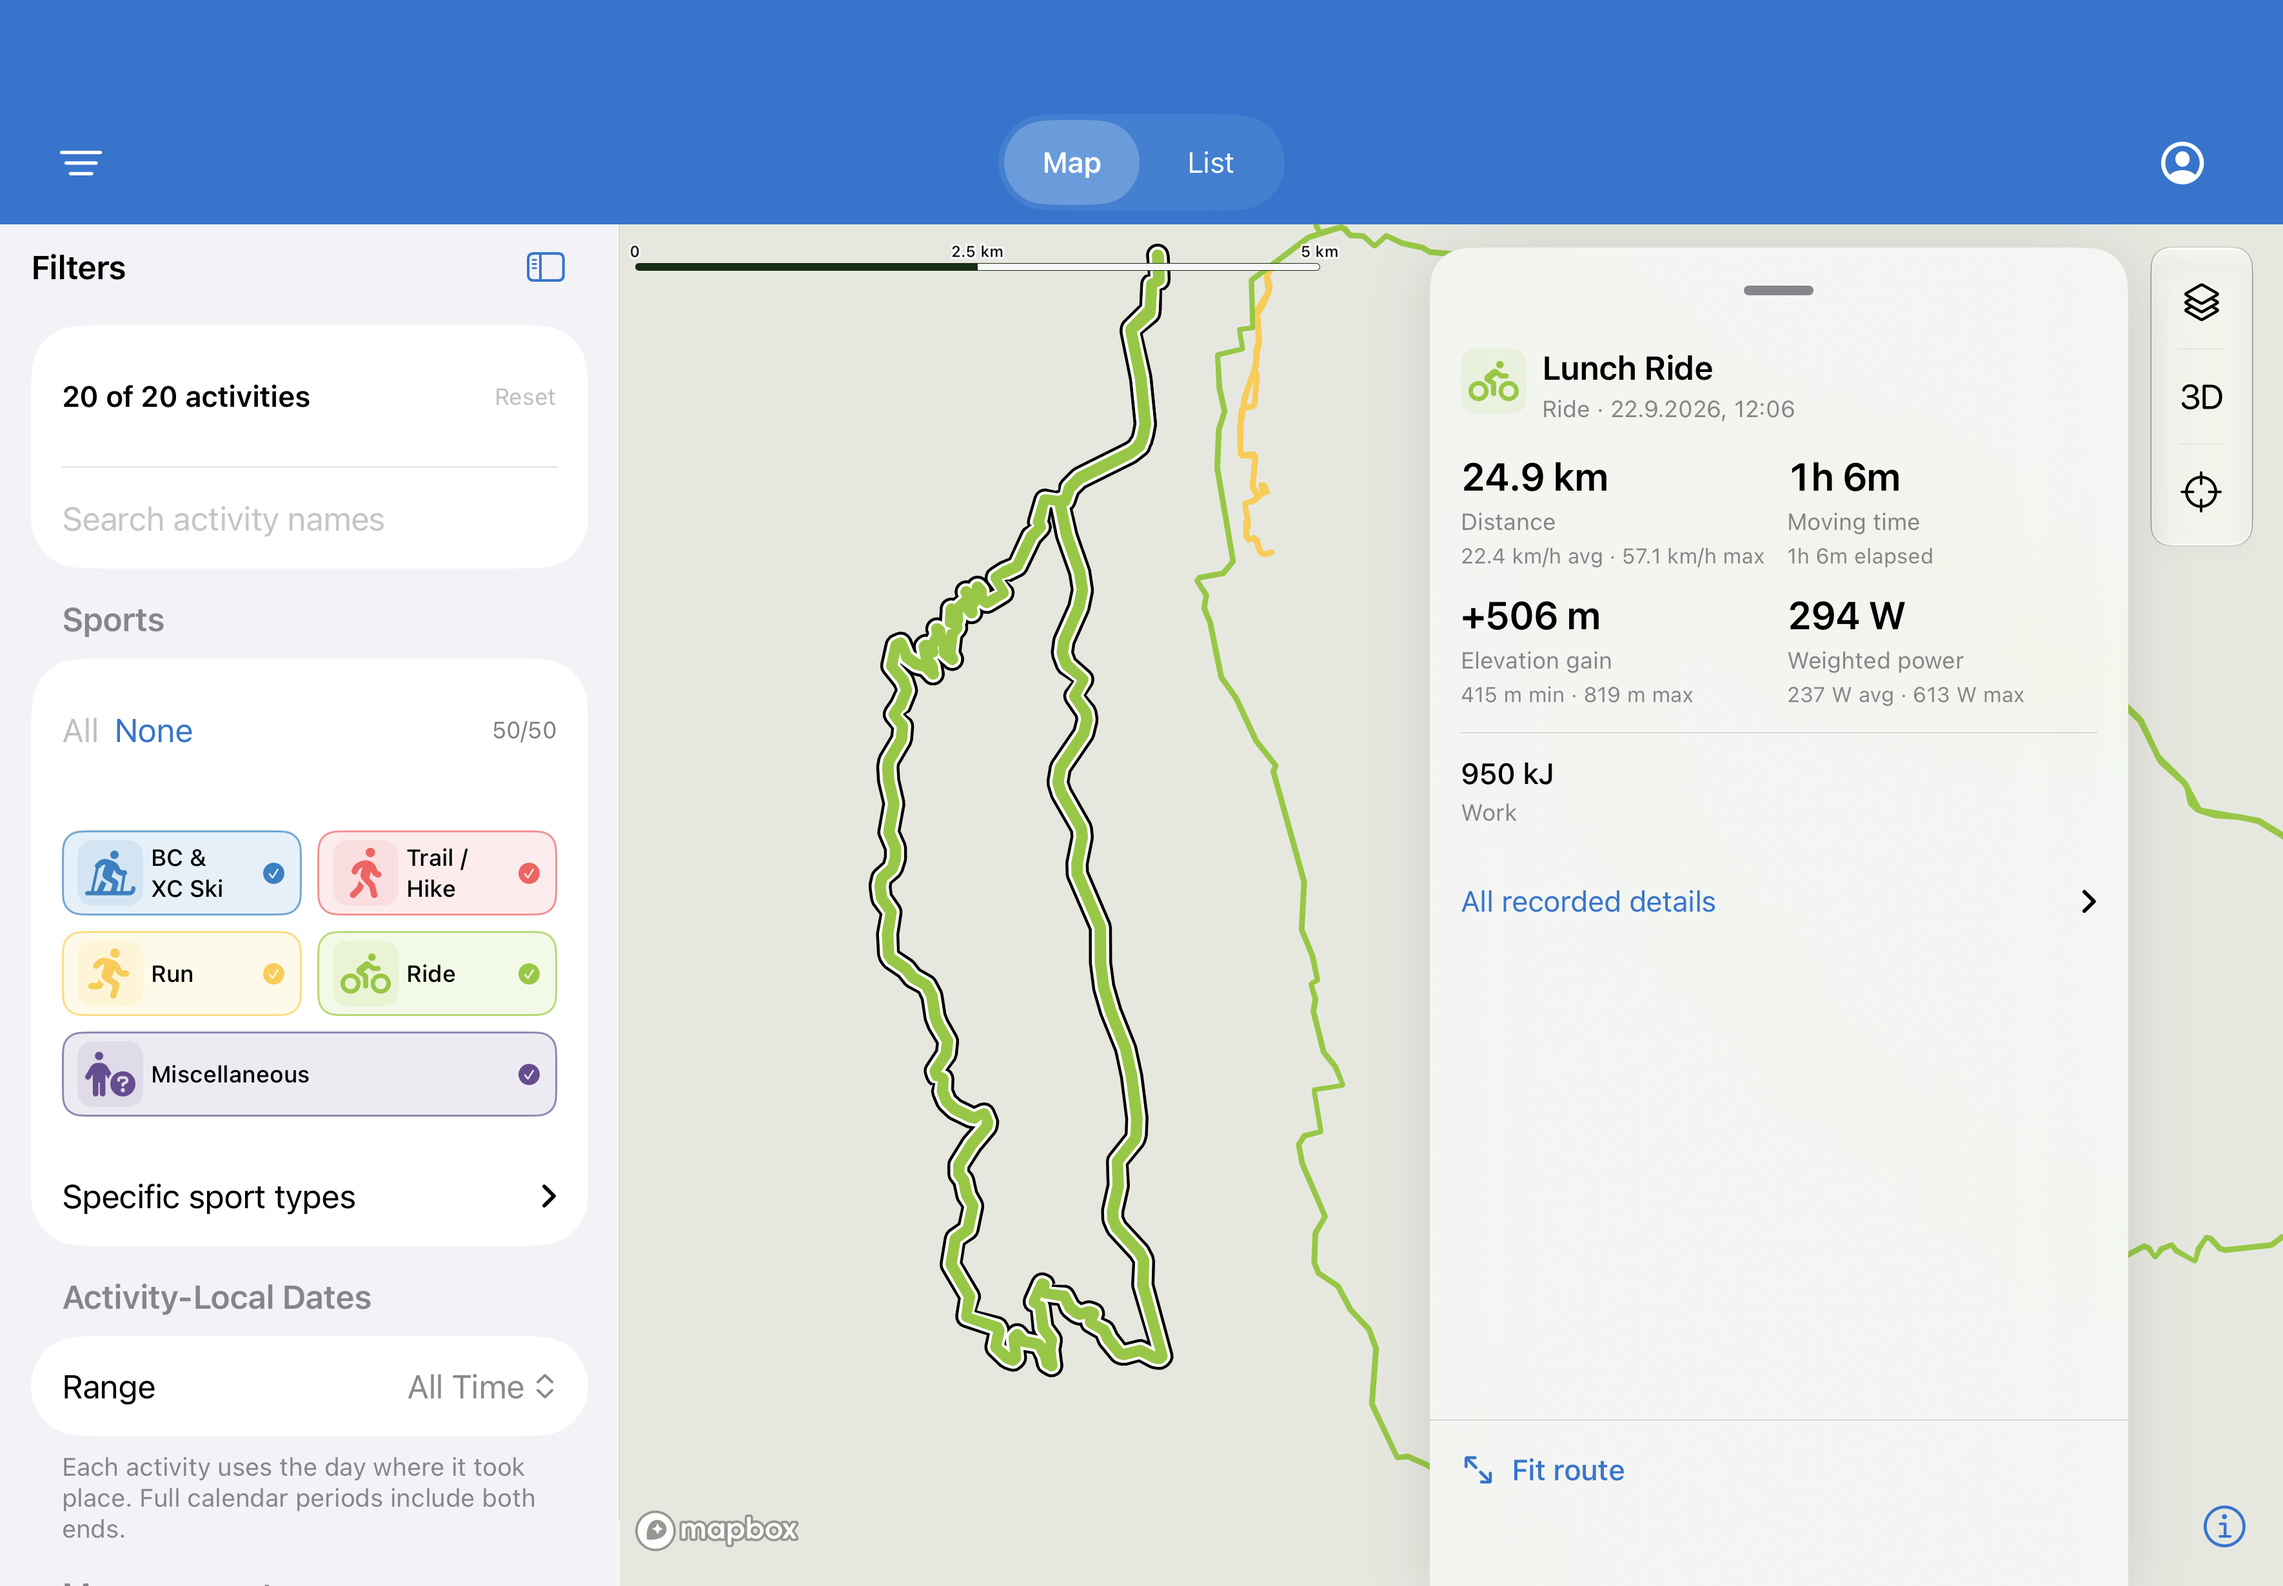
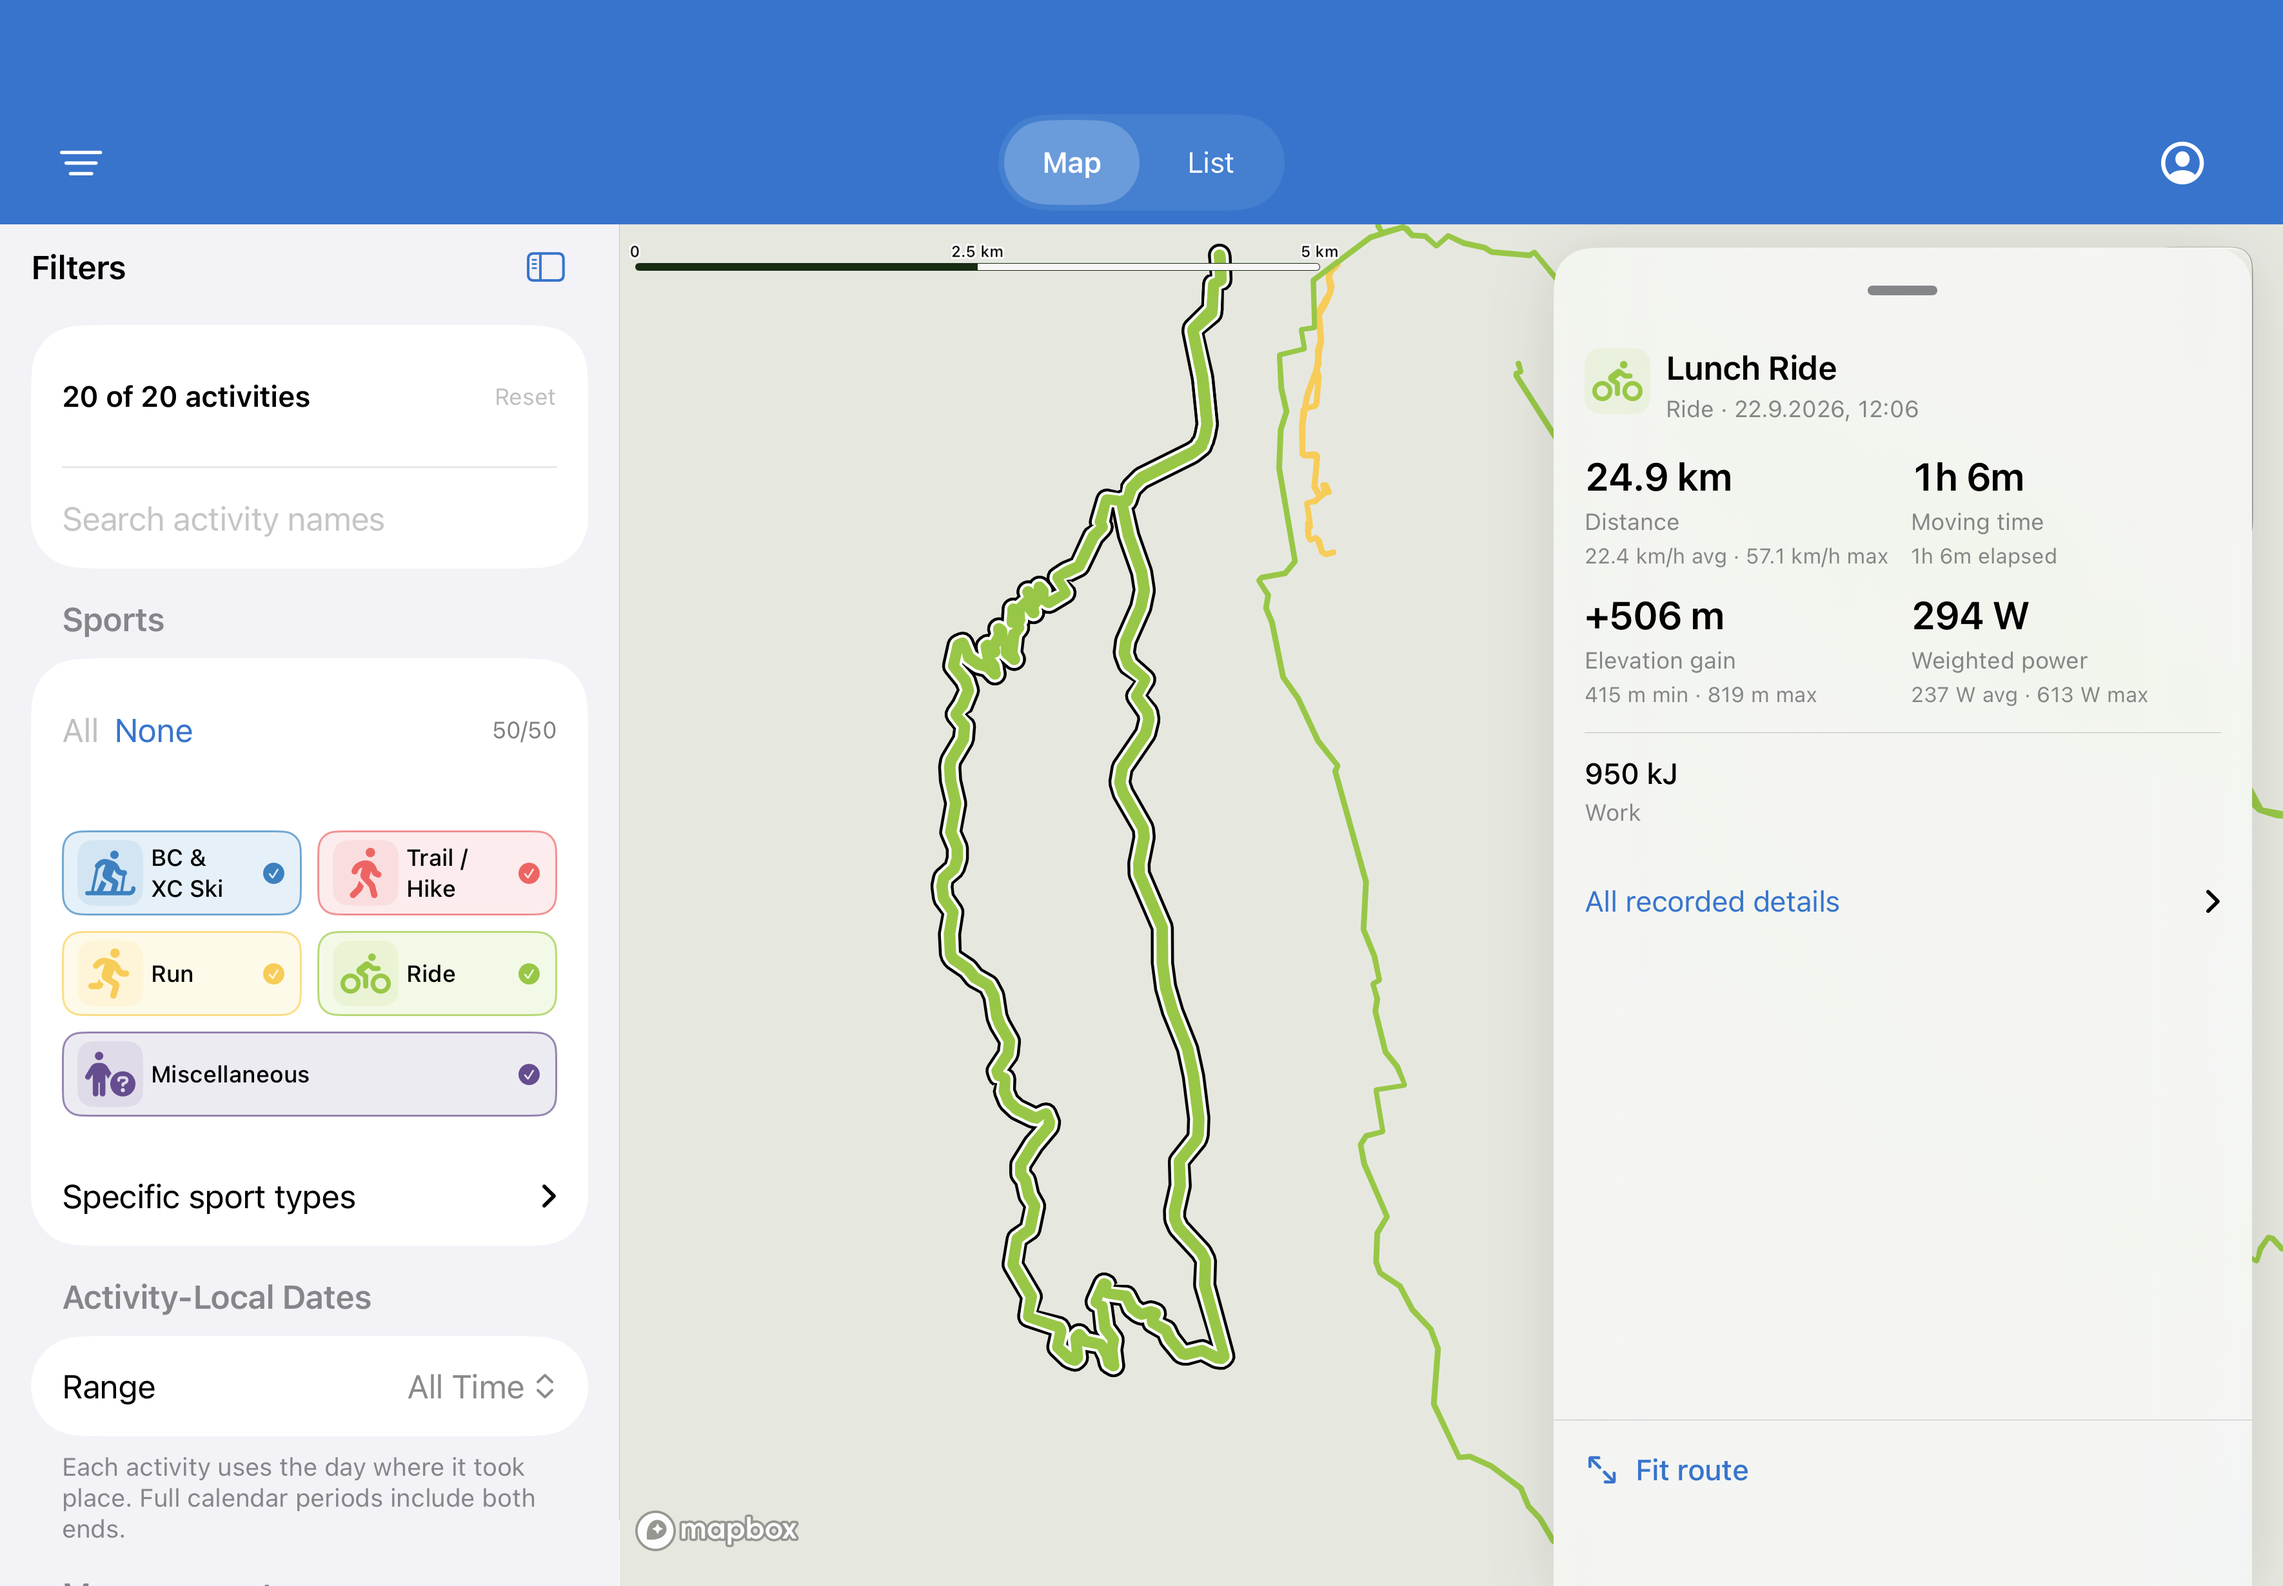
Let expanded map results cover the controls

diff --git a/ios/ActivityMap/ActivityMapTests/MapResultsTests.swift b/ios/ActivityMap/ActivityMapTests/MapResultsTests.swift
@@ -77,7 +77,7 @@ struct MapResultsTests {
                 }
                 #expect(layouts[0].contentHeight < layouts[1].contentHeight)
                 #expect(layouts[1].frame == layouts[2].frame)
-                #expect(layouts.allSatisfy { abs($0.frame.maxX - (size.width - 80)) < 0.01 })
+                #expect(layouts.allSatisfy { abs($0.frame.maxX - (size.width - 16)) < 0.01 })
                 #expect(layouts.allSatisfy { $0.bottomOcclusion == 0 && $0.trailingOcclusion == layouts[0].trailingOcclusion })
                 #expect(layouts.allSatisfy { $0.frame.maxY == size.height + 21 }, "Both states meet the physical bottom edge through the safe area")
                 #expect(layouts[0].frame.minY > layouts[1].frame.minY, "Expansion moves the top edge upward")
@@ -88,7 +88,7 @@ struct MapResultsTests {
     }
 
     @Test(arguments: [CGSize(width: 390, height: 810), CGSize(width: 768, height: 990), CGSize(width: 800, height: 360)])
-    func controlsStayAtTopRightBesideWideResults(size: CGSize) {
+    func controlsStayAtTopRightBehindExpandedResults(size: CGSize) {
         let center = MapResultsLayout.controlsCenter(size: size, topInset: 106)
         let controls = CGRect(x: center.x - 26, y: center.y - 77, width: 52, height: 154)
         #expect(CGRect(origin: .zero, size: size).contains(controls))
@@ -96,8 +96,10 @@ struct MapResultsTests {
         for detent in MapResultsDetent.allCases {
             let panel = MapResultsLayout(size: size, topInset: 106, bottomInset: 34, detent: detent)
             if panel.isSidePanel {
-                #expect(!panel.frame.intersects(controls), "Wide results must leave the tool lane accessible")
-                #expect(panel.frame.maxX + 12 == controls.minX)
+                #expect(panel.frame.maxX == controls.maxX)
+                if detent == .expanded {
+                    #expect(panel.frame.contains(controls), "Expanded results intentionally cover the controls")
+                }
             }
         }
     }

diff --git a/ios/ActivityMap/ActivityMap/Map/MapResultsLayout.swift b/ios/ActivityMap/ActivityMap/Map/MapResultsLayout.swift
@@ -30,8 +30,8 @@ struct MapResultsLayout {
          largeText: Bool = false) {
         isSidePanel = size.width >= 650 || size.width > size.height
         let width = isSidePanel ? min(380, size.width * 0.42) : max(0, size.width - 8)
-        // Keep navigation clear and reserve a 64pt lane for the vertical tools
-        // beside wide results. Panel heights and snap behavior stay unchanged.
+        // Keep navigation clear. Results overlay the top-right controls when
+        // expanded; no empty control lane is reserved beside the panel.
         let top = topInset + 12
         let available = max(120, size.height - top - (isSidePanel ? 0 : 12))
         let compact = min(available, isSidePanel ? (largeText ? 160 : 108) : (largeText ? 240 : 156))
@@ -44,7 +44,7 @@ struct MapResultsLayout {
         contentHeight = height
         // Both hosts rise from the bottom. On wide maps the lower edge stays
         // anchored while the header moves upward to reveal the results.
-        frame = CGRect(x: isSidePanel ? max(0, size.width - width - 80) : 4, y: size.height - contentHeight,
+        frame = CGRect(x: isSidePanel ? max(0, size.width - width - 16) : 4, y: size.height - contentHeight,
                        width: width, height: contentHeight + bottomInset)
         bottomOcclusion = isSidePanel ? 0 : contentHeight + bottomInset
         trailingOcclusion = isSidePanel ? size.width - frame.minX + 12 : 0

diff --git a/docs/ios-ui-components.md b/docs/ios-ui-components.md
@@ -59,7 +59,7 @@ Two hosts present this content (`MapResultsContainer`):
 - **Phone portrait — native sheet (draft, #278).** `NativeMapResultsSheet` presents `RoutePickerSheet` with system detents (collapsed summary, content-aware opening height, `.large`), a visible drag indicator, background interaction up through large, and interactive dismissal disabled. See [Native phone map sheet draft](#native-phone-map-sheet-draft). The custom handle is not mounted in this host.
 - **Wide/landscape — bottom-right panel (#279).** Used when the map is ≥650pt wide or landscape. A 44pt drag handle collapses to a header or expands upward to the full available height. It supports tapping, VoiceOver adjustment and named actions; no separate expand button is shown. Both states extend to the physical bottom edge through the safe area, with square lower corners and inset content. Medium and expanded model detents both mean full height. Dragging follows the current resting height, clamps overshoot and uses predicted movement to snap. Results and detail pages remain mounted. Explicit camera fits reserve the trailing footprint, and changing height never emits a camera request. The owner chose the position and handle-only design after reviewing screenshots on 2026-10-03.
 
-Map controls form a vertical stack at the top-right, 12pt below navigation and 16pt from the edge. Wide results leave a 64pt control lane beside the panel; phone native sheets retain system layering. See `docs/ios-map-controls-review.md` for #282 evidence. Map no longer renders a separate provider-credit badge: all source credits use the SDK info menu, alongside its feedback and privacy/telemetry controls. The native Mapbox wordmark stays at bottom-left and the sole info button at bottom-right, at their normal map positions behind results, including wide side panels. Source attribution remains on raster base/overlay sources and is read from vector source metadata. [Mapbox requires the visible wordmark](https://docs.mapbox.com/help/dive-deeper/attribution/), including on third-party maps; [Swisstopo accepts centrally accessible source references](https://www.swisstopo.admin.ch/en/faq-free-geodata). Fully replacing the native info menu requires Mapbox review.
+Map controls form a vertical stack at the top-right, 12pt below navigation and 16pt from the edge. Expanded results cover the controls; no control lane is reserved beside the panel. Phone native sheets retain system layering. See `docs/ios-map-controls-review.md` for #282 evidence. Map no longer renders a separate provider-credit badge: all source credits use the SDK info menu, alongside its feedback and privacy/telemetry controls. The native Mapbox wordmark stays at bottom-left and the sole info button at bottom-right, at their normal map positions behind results, including wide side panels. Source attribution remains on raster base/overlay sources and is read from vector source metadata. [Mapbox requires the visible wordmark](https://docs.mapbox.com/help/dive-deeper/attribution/), including on third-party maps; [Swisstopo accepts centrally accessible source references](https://www.swisstopo.admin.ch/en/faq-free-geodata). Fully replacing the native info menu requires Mapbox review.
 
 ### Status
 

diff --git a/docs/ios-map-controls-review.md b/docs/ios-map-controls-review.md
@@ -2,7 +2,7 @@
 
 Layers, 3D and Camera now form a vertical stack 16pt from the right edge and 12pt below navigation. The existing Layers and Camera menus remain native; no new permanent control or inactive photo toggle is added.
 
-Wide results reserve a 64pt control lane (52pt stack plus 12pt clearance). The panel retains its width, height, drag snaps and bottom attachment, with its right inset increasing from 16pt to 80pt. Explicit fits reserve the resulting footprint. On phones, the native large results sheet can still cover controls; sheet behavior is deferred to #284/#285.
+Wide results retain their original 16pt right inset, width, height, drag snaps and bottom attachment. Expanded results intentionally cover the controls, as selected in review; no empty lane is reserved. Explicit camera-fit padding remains based on the original panel footprint. On phones, the native large results sheet can still cover controls; sheet behavior is deferred to #284/#285.
 
 The next feature-menu extension should be photo visibility under Layers, implemented with #219 (which depends on #218), including filter-aware markers, touch previews and hit precedence. No photo implementation is included here.
 
@@ -14,4 +14,4 @@ The next feature-menu extension should be photo visibility under Layers, impleme
 | --- | --- |
 | ![Collapsed](ios-map-controls/after-collapsed.png) | ![Single activity](ios-map-controls/after-single.png) |
 
-Simulator/offline-style captures. Focused geometry and rendered-map validation: 37 tests passed (80 parameterized runs), zero failures. `git diff --check` passed. Result: `/tmp/activitymap-navigation-build/Logs/Test/Test-ActivityMap-2026.10.03_09-08-17-+0200.xcresult`.
+Simulator/offline-style captures. Focused geometry and rendered-map validation: 37 tests passed (80 parameterized runs), zero failures. `git diff --check` passed. Result: `/tmp/activitymap-navigation-build/Logs/Test/Test-ActivityMap-2026.10.03_09-12-20-+0200.xcresult`.
